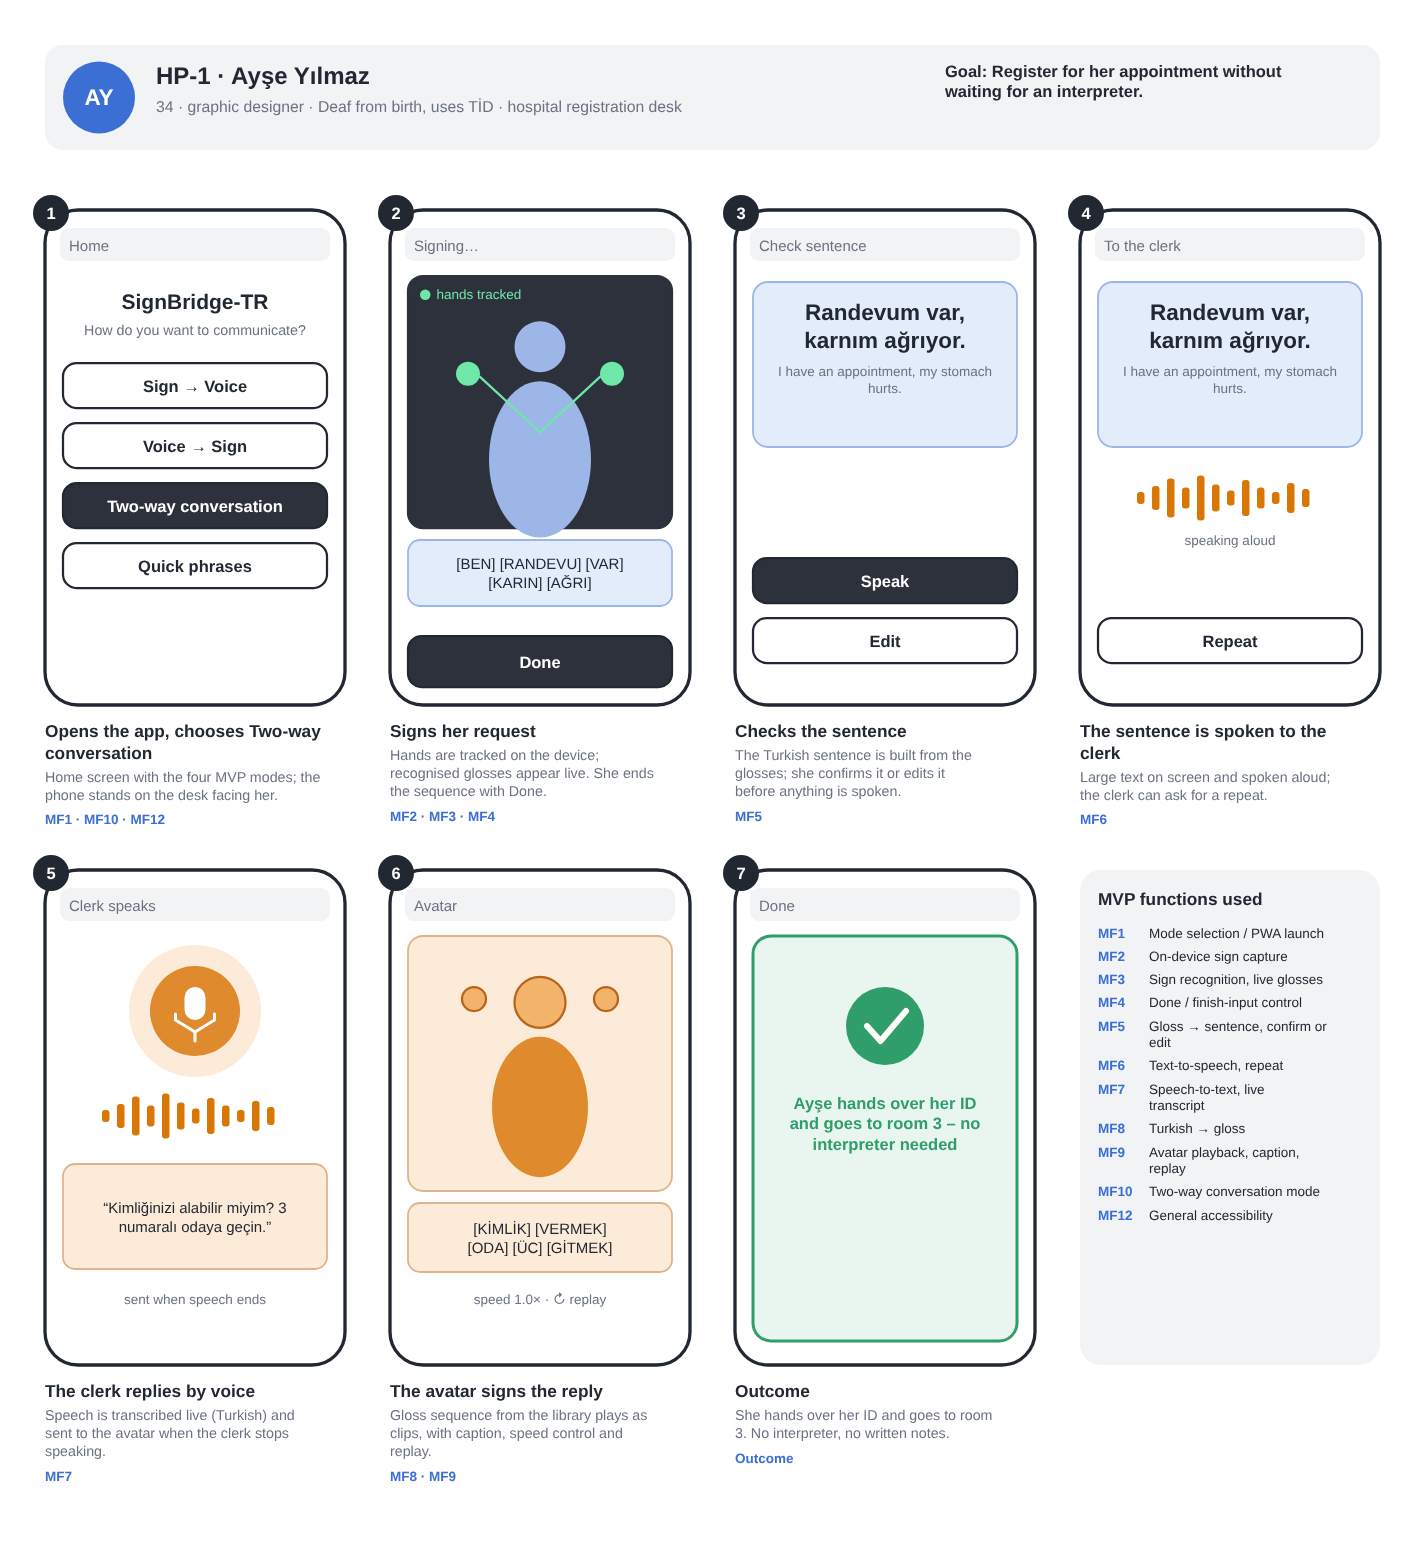
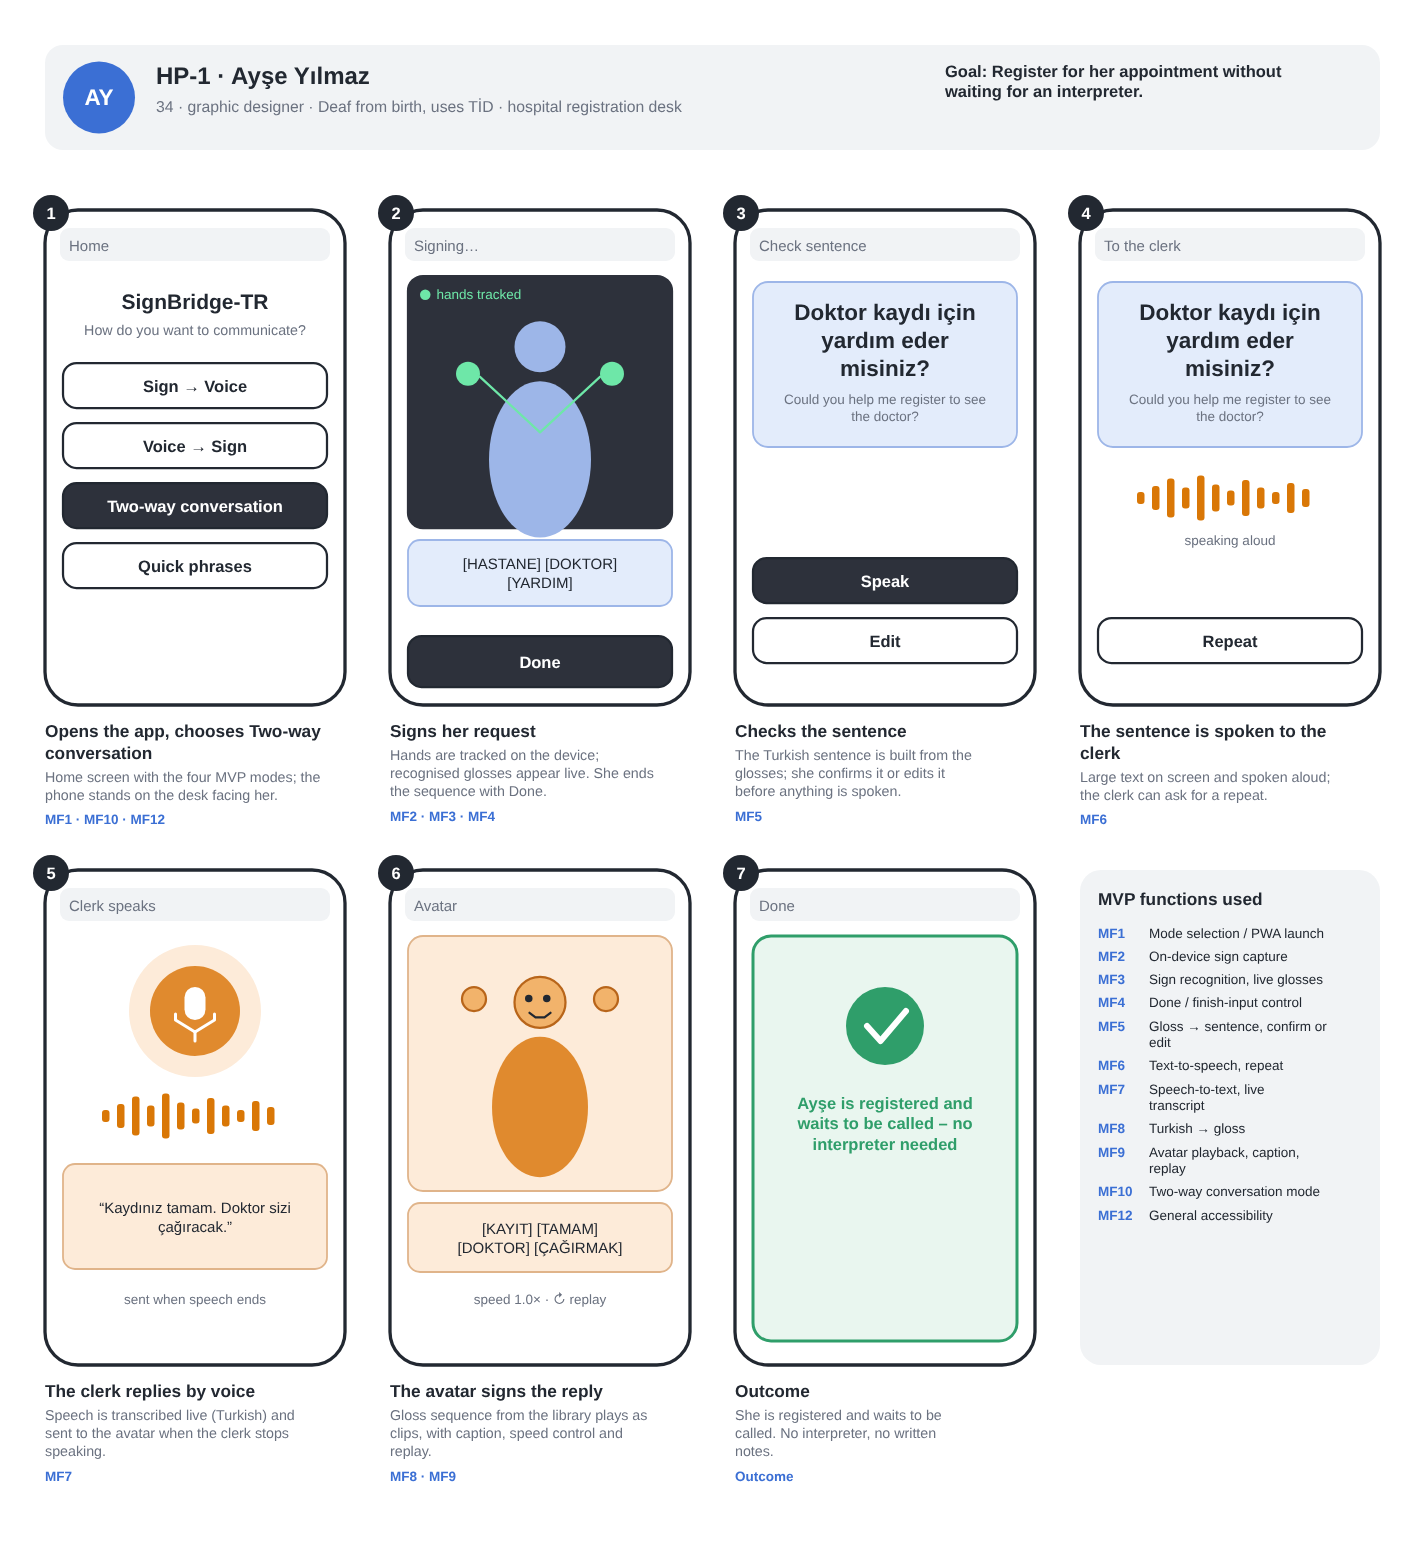
SB-23: Revise happy paths after review (vocabulary, HP-3 shared phone)

diff --git a/docs/sow/happy-paths.md b/docs/sow/happy-paths.md
@@ -17,7 +17,7 @@ The high-level functionalities that these paths require, their use cases and the
 1. **Only the successful scenario is shown.** Failures (a sign is not recognised, speech is misheard, no network, a word is missing from the avatar library) are handled in the use cases of SB-24, not here.
 2. **Only MVP functions are used**, as SB-23 requires (the point was raised in the Sprint 2 Technical Meeting). The functions are listed in the table below, with their source in the proposal. Blind-specific features are not an agreed MVP commitment (open decision D-23). Where a step uses one, it is marked **PROPOSED** and has its own ID (PX1–PX3).
 3. **Two controls separate input from output** in every sign-to-speech flow, as the proposal requires (functional requirement 3): the signer ends the sign sequence with an accessible **Done** control (a longer pause is an alternative, Technical Notes §4), and then **confirms or edits** the generated sentence before it is spoken.
-4. **Gloss examples are illustrative and unverified.** Several wireframe glosses (SİMİT, BİR, KARIN, AĞRI, RANDEVU) are not Dataset classes, and the single *saat* class does not cover numbers or clock times. The scenario dialogues are fixed only after the coverage audit (before 13 November 2026) and may be shortened.
+4. **Gloss examples are illustrative.** The signed input of HP-1, HP-2 and HP-3 (Direction A) is built mainly from words that a class-name match found in AUTSL: HASTANE, DOKTOR, İLAÇ, YARDIM, YARIN and OKUL (the match also found ECZANE, SAAT and TEŞEKKÜR). A name match does not prove that the Dataset sign is the intended TİD sign, and the other glosses (for example BULUŞMAK and Mİ) and the café order of HP-4 have not been checked. The single *saat* class does not cover numbers or clock times. The avatar side (Direction B) uses the team's own clip library, which is separate from the Dataset vocabulary. The scenario dialogues are fixed only after the coverage audit (before 13 November 2026) and may be shortened.
 5. **Labels are in English for readability.** The final interface will be in Turkish. In the flow tables, **S1, S2, …** refer to the numbered screens of that path's storyboard; some steps show their result on the next screen.
 6. **Raw camera video is processed on the device and is neither stored nor sent** (objective O8); only recognised glosses and text move on.
 
@@ -72,14 +72,14 @@ No new targets are set here. The measures below are the existing objectives, and
 | # | User action | System response | MVP functions | Sketch |
 |---|---|---|---|---|
 | 1 | Ayşe opens the app, places the phone on the desk and taps **Two-way conversation**. | Shows the home screen with the four modes, opens two-way mode and starts the camera preview. | MF1, MF10, MF12 | S1 |
-| 2 | Ayşe signs her request (*BEN, RANDEVU, VAR, KARIN, AĞRI*), pausing briefly between signs. | Extracts landmarks on the device, recognises each isolated sign after its pause and lists the glosses live. | MF2, MF3 | S2 |
+| 2 | Ayşe signs her request (*HASTANE, DOKTOR, YARDIM*), pausing briefly between signs. | Extracts landmarks on the device, recognises each isolated sign after its pause and lists the glosses live. | MF2, MF3 | S2 |
 | 3 | Ayşe taps **Done**. | Ends the sign sequence, builds the Turkish sentence from the glosses and shows it in large text with **Speak** and **Edit**. | MF4, MF5 | S3 |
-| 4 | Ayşe checks the sentence and taps **Speak**. | Reads *"Randevum var, karnım ağrıyor."* aloud to the clerk and keeps it on screen; **Repeat** is available. | MF5, MF6 | S4 |
-| 5 | The clerk answers aloud: *"Kimliğinizi alabilir miyim? 3 numaralı odaya geçin."* | Switches to listening, shows a live transcript and, when the speech ends, sends it on. | MF7, MF10 | S5 |
+| 4 | Ayşe checks the sentence and taps **Speak**. | Reads *"Doktor kaydı için yardım eder misiniz?"* aloud to the clerk and keeps it on screen; **Repeat** is available. | MF5, MF6 | S4 |
+| 5 | The clerk answers aloud: *"Kaydınız tamam. Doktor sizi çağıracak."* | Switches to listening, shows a live transcript and, when the speech ends, sends it on. | MF7, MF10 | S5 |
 | 6 | Ayşe watches the avatar. | Converts the sentence into a gloss sequence from the library and plays the clips with a caption; Ayşe can replay or change the speed. | MF8, MF9 | S6 |
-| 7 | Ayşe hands over her ID and goes to room 3. | Flow ends. | – | S7 |
+| 7 | Ayşe takes a seat in the waiting area. | Flow ends. | – | S7 |
 
-**Outcome:** Ayşe is registered and knows where to go. No interpreter and no written notes were needed.
+**Outcome:** Ayşe is registered and knows that the doctor will call her. No interpreter and no written notes were needed.
 
 **Measures exercised:** O5-A (signing to spoken output), O5-B (clerk's speech to avatar), O6, O7 (Deaf/hard-of-hearing TİD users and hearing non-signers), O8.
 
@@ -107,9 +107,9 @@ No new targets are set here. The measures below are the existing objectives, and
 | 1 | Mehmet opens the app, taps **Two-way conversation** and turns the tablet toward the customer. | Opens two-way mode (as HP-1, step 1). | MF1, MF10, MF12 | S1 |
 | 2 | Mehmet says: *"Bu ilacı günde iki kez, yemekten sonra için."* | Transcribes live so that Mehmet can check that he was heard correctly; when the speech ends, sends the transcript on. | MF7 | S2 |
 | 3 | The customer watches the avatar. | Converts the sentence into a gloss sequence from the library, with numbers and times as explicit signs, and plays the clips with a caption; the customer can replay or slow down. | MF8, MF9 | S3 |
-| 4 | The customer signs a question (*AÇ, KARIN, OLUR, Mİ*) and taps **Done**. | After the avatar finishes, switches to the camera, recognises the signs and lists the glosses; on **Done**, builds the sentence and shows it with **Speak** and **Edit**. | MF2, MF3, MF4, MF5, MF10 | S4–S5 |
-| 5 | The customer confirms with **Speak**. | Reads *"Aç karnına içebilir miyim?"* aloud and shows it in large text, with a **Reply** button. | MF5, MF6 | S5–S6 |
-| 6 | Mehmet taps **Reply** and answers by voice: *"Evet, aç karnına içebilirsiniz."* | Repeats steps 2–3: transcript, gloss sequence, avatar with caption. | MF7, MF8, MF9, MF10 | S6–S7 |
+| 4 | The customer signs a question (*İLAÇ, YARIN, Mİ*) and taps **Done**. | After the avatar finishes, switches to the camera, recognises the signs and lists the glosses; on **Done**, builds the sentence and shows it with **Speak** and **Edit**. | MF2, MF3, MF4, MF5, MF10 | S4–S5 |
+| 5 | The customer confirms with **Speak**. | Reads *"İlacı yarın da içeyim mi?"* aloud and shows it in large text, with a **Reply** button. | MF5, MF6 | S5–S6 |
+| 6 | Mehmet taps **Reply** and answers by voice: *"Evet, yarın da aynı şekilde için."* | Repeats steps 2–3: transcript, gloss sequence, avatar with caption. | MF7, MF8, MF9, MF10 | S6–S7 |
 | 7 | The customer understands the answer and leaves. | Flow ends. | – | S8 |
 
 **Outcome:** The customer leaves with the dosage understood. No notes were passed back and forth, and the risk of a misunderstood "twice a day, after meals" is removed.
@@ -133,6 +133,7 @@ No new targets are set here. The measures below are the existing objectives, and
 
 - SignBridge-TR is open on Zeynep's phone; VoiceOver is on, permissions are granted and the device is online.
 - Emre sits opposite Zeynep and the phone is positioned so that the camera sees him (Emre sets it up or the phone stands on a stand). Zeynep cannot check the framing herself.
+- The phone is Zeynep's, so VoiceOver stays on while Emre uses the on-screen controls **Done**, **Speak** and **Edit**. With VoiceOver on, a control is selected with one tap (the focus frame is visible) and activated with a double-tap; Zeynep shows Emre this once. Whether the signer's side needs a view that works without VoiceOver gestures is open point 7.
 
 **Flow**
 
@@ -140,8 +141,8 @@ No new targets are set here. The measures below are the existing objectives, and
 |---|---|---|---|---|
 | 1 | Zeynep starts the app with VoiceOver, moves the focus to **Two-way conversation** and double-taps. (**PROPOSED** alternative: she says "Start conversation".) | VoiceOver announces the control; opens two-way mode and starts the camera. | MF1, MF10, MF12 (PX1) | S1 |
 | 2 | Zeynep waits. | **PROPOSED:** speaks a cue when Emre's hands are fully in the frame: *"Emre is in frame. Both hands visible. Ready."* | PX2, MF2 | S2 |
-| 3 | Emre signs (*ÖDEV, YARIN, KÜTÜPHANE, YAPMAK, Mİ*) and taps **Done**. | Recognises the signs and lists the glosses for Emre; on **Done**, builds the sentence. | MF3, MF4, MF5 | S3 |
-| 4 | Emre checks the sentence and taps **Speak**. | Reads *"Ödevi yarın kütüphanede yapalım mı?"* aloud and exposes the text to VoiceOver as a status message. | MF5, MF6, MF12 | S4–S5 |
+| 3 | Emre signs (*YARIN, OKUL, BULUŞMAK, Mİ*) and ends the sequence with **Done** (tap to select, double-tap to activate). | Recognises the signs and lists the glosses for Emre; on **Done**, builds the sentence. | MF3, MF4, MF5 | S3 |
+| 4 | Emre checks the sentence and confirms with **Speak** (tap, double-tap). | Reads *"Yarın okulda buluşalım mı?"* aloud and exposes the text to VoiceOver as a status message. | MF5, MF6, MF12 | S4–S5 |
 | 5 | Zeynep activates **Answer by voice** (focus and double-tap; **PROPOSED** alternative: voice command) and says: *"Olur, saat ikide buluşalım."* | Transcribes the speech and, when it ends, sends it on. | MF7 (PX1) | S5–S6 |
 | 6 | Emre watches the avatar. | Converts the sentence into a gloss sequence and plays the clips with a caption. **PROPOSED:** tells Zeynep by voice *"Delivered to Emre."* | MF8, MF9, PX3 | S7 |
 | 7 | Zeynep and Emre have agreed the meeting. | Flow ends. | – | S8 |
@@ -180,6 +181,8 @@ No new targets are set here. The measures below are the existing objectives, and
 | 5 | Can taps **Save to Quick phrases**. | Stores the sentence on the device and shows it at the top of the Quick phrases list. | MF11 | S5–S6 |
 | 6 | *Next visit:* Can opens **Quick phrases** and taps the saved phrase. | Speaks the phrase at once, without the camera step. | MF11, MF6 | S7 |
 
+*The glosses of this path are illustrative: no word of the café order has been confirmed by the class-name match (see ground rule 4).*
+
 **Outcome:** Can gets his order right the first time and hears the barista's reply directly. His order is saved for one-tap reuse.
 
 **Measures exercised:** O5-A, O6, O7, O8.
@@ -216,9 +219,10 @@ Not shown on any path: the fingerspelling fallback for words that are not in the
 | 1 | **Blind-user scope (D-23)** | HP-3 is kept as a proposed path with PX1–PX3 marked; a fallback variant for mediated communication is described. | Team, then advisor |
 | 2 | **Confirm before speaking** | Every sign-to-speech flow has Done and confirm/edit (functional requirement 3, Technical Notes §4). Figure 2 (a) and (b) in the Technical Notes show the sentence spoken directly, so those wireframes would need to be updated if the team agrees. | Team |
 | 3 | **When speech is sent to the avatar** | Sent automatically when the speech ends. Figure 2 (a) says "Auto-sent" and (b) shows a **Send to avatar** button; the two differ. | Team |
-| 4 | **Vocabulary** | Glosses are illustrative. If the coverage audit shows that a sign is missing (for example SİMİT, BİR, KARIN, AĞRI, RANDEVU), the scenario sentence is rephrased with covered glosses. | Owner of the coverage audit |
+| 4 | **Vocabulary** | Glosses are illustrative. HP-1 to HP-3 use mainly classes found by name match (HASTANE, DOKTOR, YARDIM, İLAÇ, YARIN, OKUL); HP-4 (SİMİT, BİR, ÇAY, LÜTFEN) has none confirmed. If the coverage audit shows that a sign is missing, the scenario sentence is rephrased with covered glosses. | Owner of the coverage audit |
 | 5 | **Quick phrases (HP-4)** | Saving is an explicit user action, and phrases are stored on the device only. The proposal says only "saved quick phrases". | Team, together with the privacy decisions (data-flow table) |
 | 6 | **Figure 2 (d) items not carried over** | The persona need "a voice he chose" has no matching functional requirement, so a default voice is used. Confirming the sentence by signing TAMAM is not used; confirmation is by tap only. | Team |
+| 7 | **VoiceOver on a shared phone (HP-3)** | The signer uses the controls of the blind user's phone with VoiceOver on (tap, then double-tap). If this proves impractical, the signer's side needs a view without VoiceOver gestures, or the path is reduced to the mediated variant. | Team, together with D-23 |
 
 ## 9. Traceability
 
